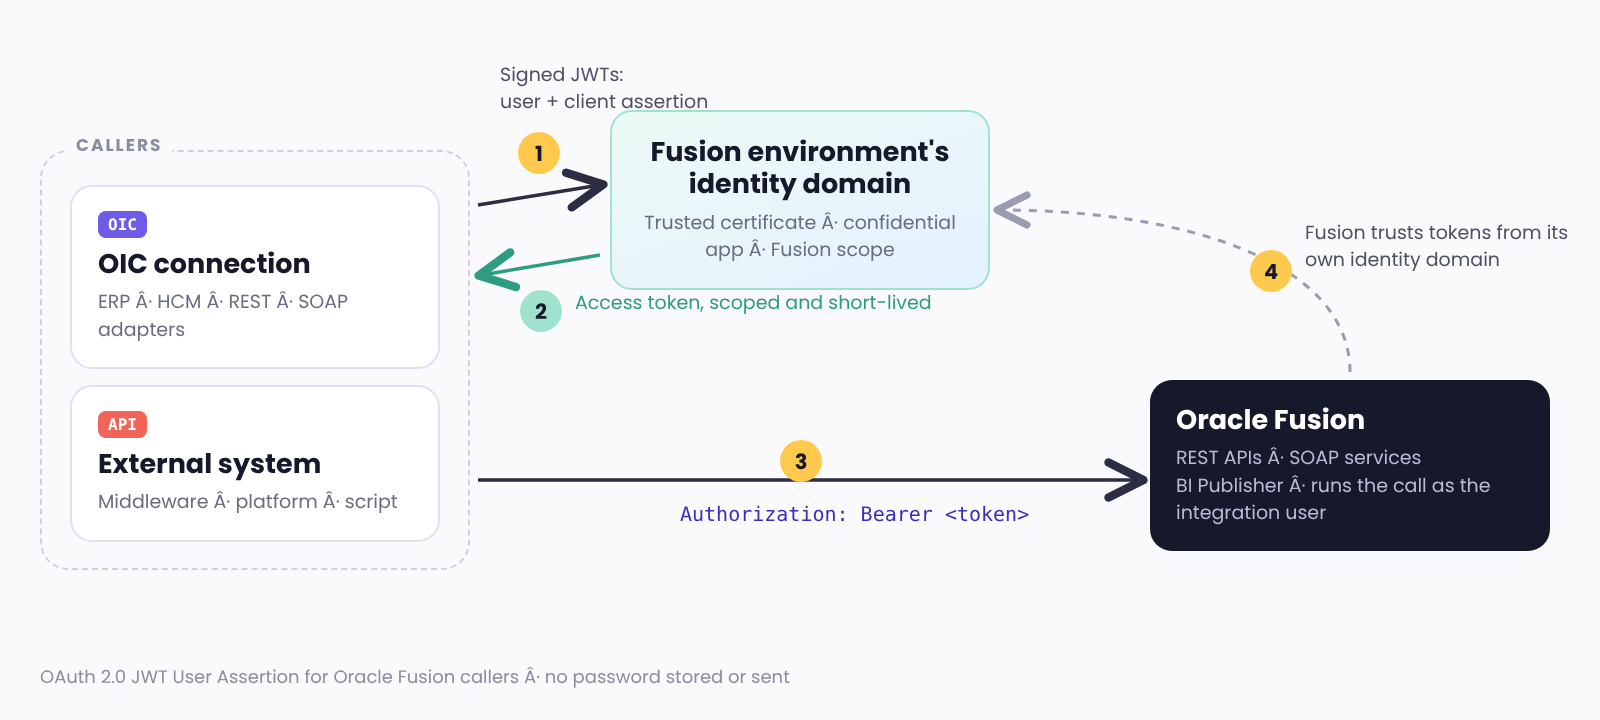
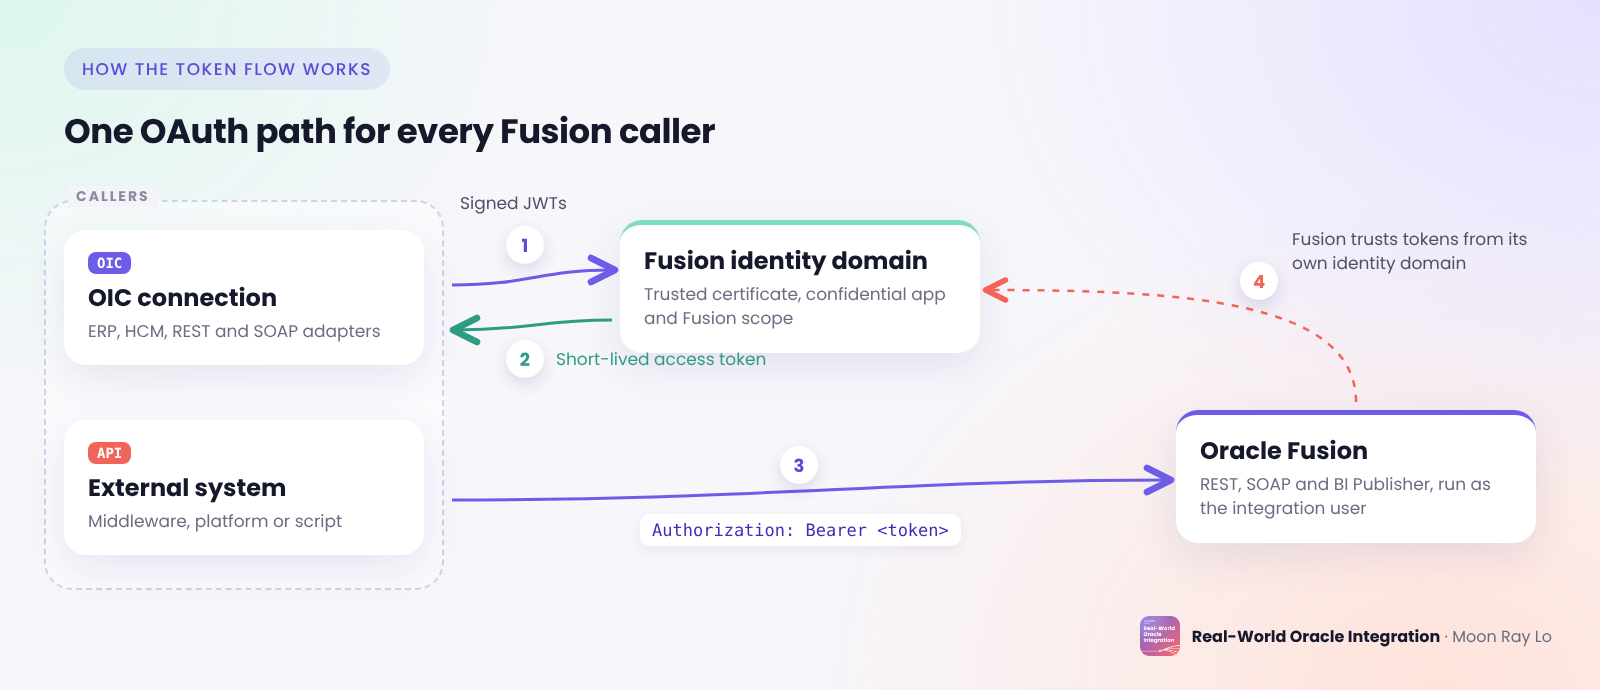
Update repo README for guides; restyle flow diagram; newsletter links

diff --git a/README.md b/README.md
@@ -1,18 +1,31 @@
 # Oracle Integration Patterns
 
-Hands-on build walkthroughs and reusable patterns for Oracle Integration 3 (OIC),
-based on real integration work. Each document shows a complete build from
-design to end-to-end testing, with screenshots, mappings and runtime results.
+Hands-on build walkthroughs, setup guides and reusable patterns for Oracle Integration 3 (OIC)
+and Oracle Fusion Cloud Applications, based on real integration work. Walkthroughs show a
+complete build from design to end-to-end testing; guides take you step by step through a
+setup you can repeat in your own environments.
 
 **Author:** Moon Ray Lo, Oracle ACE Apprentice  
-**Product:** Oracle Integration 3  
+**Products:** Oracle Integration 3 · Oracle Fusion Cloud Applications  
 **Connect:** [LinkedIn](https://www.linkedin.com/in/moonraylo) ·
 [Oracle ACE Directory](https://ace.oracle.com/ords/ace/oapt/profile/moonraylo) ·
 [Real-World Oracle Integration newsletter](https://www.linkedin.com/newsletters/real-world-oracle-integration-7513260462159888384)
 
 ---
 
-## Contents
+## Guides
+
+Step-by-step setup guides with commands, settings, screenshots and troubleshooting.
+
+| Guide | What it covers | Link | Updated |
+|-------|----------------|------|---------|
+| Oracle Fusion OAuth Setup Guide: Moving Off Basic Authentication | Moving Oracle Integration connections (ERP, HCM, REST, SOAP, BI Publisher) and external systems that call Fusion REST and SOAP APIs from username and password to OAuth 2.0 JWT User Assertion, before Oracle's March 31, 2027 deadline | [Open guide](guides/fusion-oauth/README.md) | Nov 2026 |
+
+---
+
+## Build walkthroughs
+
+Product usage walkthroughs, one build per document (PDF).
 
 | # | Pattern | What it covers | Document | Date |
 |---|---------|----------------|----------|------|
@@ -21,13 +34,17 @@ design to end-to-end testing, with screenshots, mappings and runtime results.
 | 03 | Fusion identity domain trust and JWT token test | Signing certificate imported as a trusted partner certificate, confidential application for JWT User Assertion with the Fusion scope, token and Fusion REST call proven from Cloud Shell | [View PDF](https://github.com/engrmoonraylo/oracle-integration-patterns/blob/main/docs/OICProductUsage03_MoonRayLo_FusionIdentityDomainJWTTokenTest.pdf) | Oct 29, 2026 |
 | 04 | Fusion connections on OAuth JWT User Assertion | REST, SOAP, BI Publisher, ERP Cloud and HCM Cloud adapter connections moved from password authentication to JWT User Assertion, BI Publisher proven with a run, ERP and HCM adapter Save-before-Test behavior | [View PDF](https://github.com/engrmoonraylo/oracle-integration-patterns/blob/main/docs/OICProductUsage04_MoonRayLo_OICFusionConnectionsJWTUserAssertion.pdf) | Oct 29, 2026 |
 
+Walkthroughs 02 to 04 show the build behind the Fusion OAuth guide in detail.
+
 ---
 
 ## Repository structure
 
 ```
 oracle-integration-patterns/
-├── docs/        Build walkthroughs (PDF)
+├── docs/                 Build walkthroughs (PDF)
+├── guides/
+│   └── fusion-oauth/     Oracle Fusion OAuth setup guide (Markdown, images, scripts)
 └── README.md
 ```
 
@@ -35,11 +52,14 @@ oracle-integration-patterns/
 
 ## About these documents
 
-- Built in Oracle Integration development environments.
+- Built in Oracle Integration and Oracle Fusion development environments.
 - Environment identifiers are masked in all screenshots.
 - To download a PDF, open it and use the download button at the top right.
+- Guides render directly on GitHub; scripts are in each guide's `scripts` folder.
 - Hardcoded values in the demos are for illustration; the patterns are meant
   to be adapted to your own integrations.
+- Oracle features change between releases: confirm each step against Oracle's
+  current documentation and test in non-production first.
 
 ---
 

diff --git a/guides/fusion-oauth/README.md b/guides/fusion-oauth/README.md
@@ -6,6 +6,8 @@ Oracle is retiring password-based authentication for Oracle Fusion Cloud Applica
 
 This guide is the step-by-step companion to my Real-World Oracle Integration newsletter, Edition #4. It is written from setting this up end to end on Oracle Integration 3 and Oracle Fusion in October 2026, and checked against Oracle's documentation as of November 2026.
 
+[![Real-World Oracle Integration newsletter on LinkedIn](images/newsletter-banner.png)](https://www.linkedin.com/newsletters/real-world-oracle-integration-7513260462159888384)
+
 ![OAuth flow for Fusion callers](images/fusion-oauth-flow.png)
 
 ## Which guide do I need?
@@ -101,5 +103,9 @@ Oracle also documents a BI administrator property, **Enable OAuth for SOAP Webse
 | 1.0 | November 2026 | First public version: OIC connections and external systems, BI Publisher on a 26C pod, screenshots. |
 
 ---
+
+This guide is written for the **Real-World Oracle Integration** newsletter on LinkedIn: production-tested Oracle Integration patterns, one edition at a time. [Subscribe on LinkedIn](https://www.linkedin.com/newsletters/real-world-oracle-integration-7513260462159888384) to get the next one.
+
+[![Real-World Oracle Integration newsletter on LinkedIn](images/newsletter-banner.png)](https://www.linkedin.com/newsletters/real-world-oracle-integration-7513260462159888384)
 
 *Moon Ray Lo, Oracle ACE Apprentice. The postings on this site are my own and do not represent Huron's positions, strategies or opinions. Oracle features and behavior change between releases: confirm each step against Oracle's current documentation for your version, and test in non-production first.*

diff --git a/guides/fusion-oauth/01-oic-connections-to-fusion.md b/guides/fusion-oauth/01-oic-connections-to-fusion.md
@@ -461,6 +461,12 @@ If a connection starts failing with 401 after weeks of working, the refresh toke
 
 ---
 
+Written for the **Real-World Oracle Integration** newsletter on LinkedIn. [Subscribe on LinkedIn](https://www.linkedin.com/newsletters/real-world-oracle-integration-7513260462159888384) for the next edition.
+
+[![Real-World Oracle Integration newsletter on LinkedIn](images/newsletter-banner.png)](https://www.linkedin.com/newsletters/real-world-oracle-integration-7513260462159888384)
+
+---
+
 [← Back to the overview](README.md) · [Guide 2: External systems to Fusion →](02-external-systems-to-fusion.md)
 
 *Moon Ray Lo, Oracle ACE Apprentice. The postings on this site are my own and do not represent Huron's positions, strategies or opinions. Confirm each step against Oracle's current documentation for your release.*

diff --git a/guides/fusion-oauth/02-external-systems-to-fusion.md b/guides/fusion-oauth/02-external-systems-to-fusion.md
@@ -247,6 +247,12 @@ Use Authorization Code only when the system can't create or protect a signing ke
 
 ---
 
+Written for the **Real-World Oracle Integration** newsletter on LinkedIn. [Subscribe on LinkedIn](https://www.linkedin.com/newsletters/real-world-oracle-integration-7513260462159888384) for the next edition.
+
+[![Real-World Oracle Integration newsletter on LinkedIn](images/newsletter-banner.png)](https://www.linkedin.com/newsletters/real-world-oracle-integration-7513260462159888384)
+
+---
+
 [← Guide 1: OIC connections to Fusion](01-oic-connections-to-fusion.md) · [Back to the overview](README.md)
 
 *Moon Ray Lo, Oracle ACE Apprentice. The postings on this site are my own and do not represent Huron's positions, strategies or opinions. Confirm each step against Oracle's current documentation for your release.*
